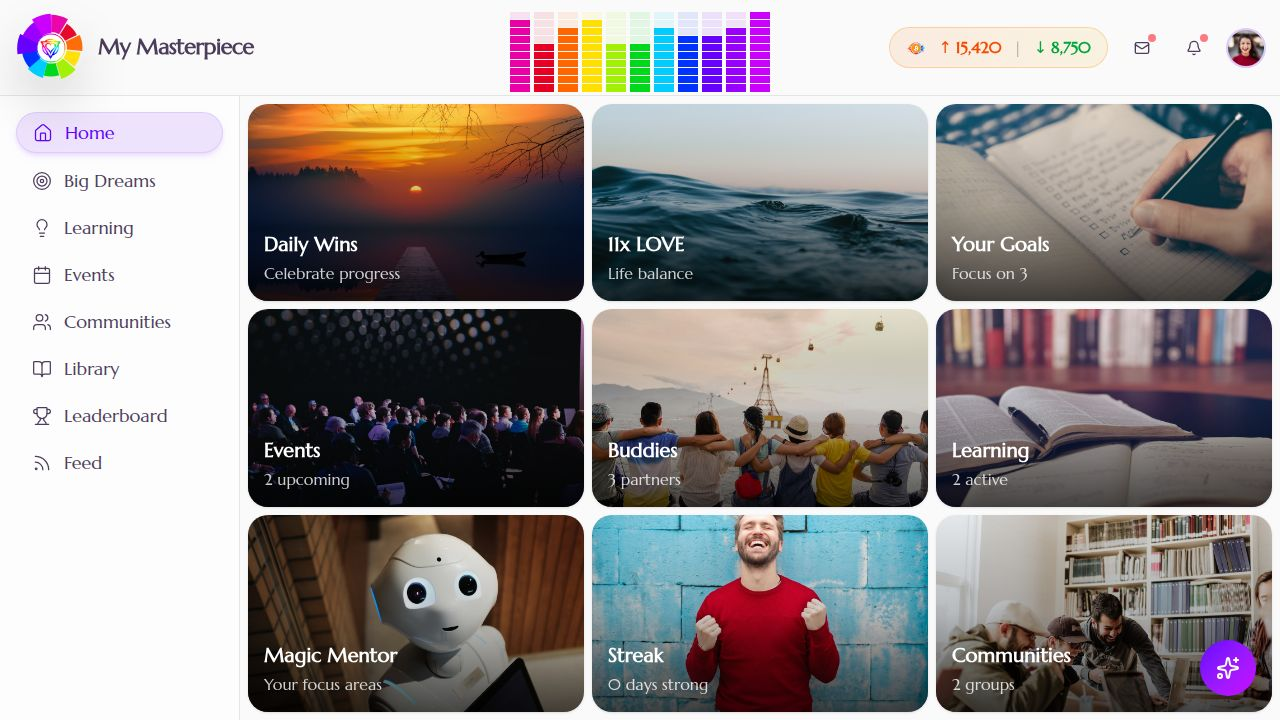
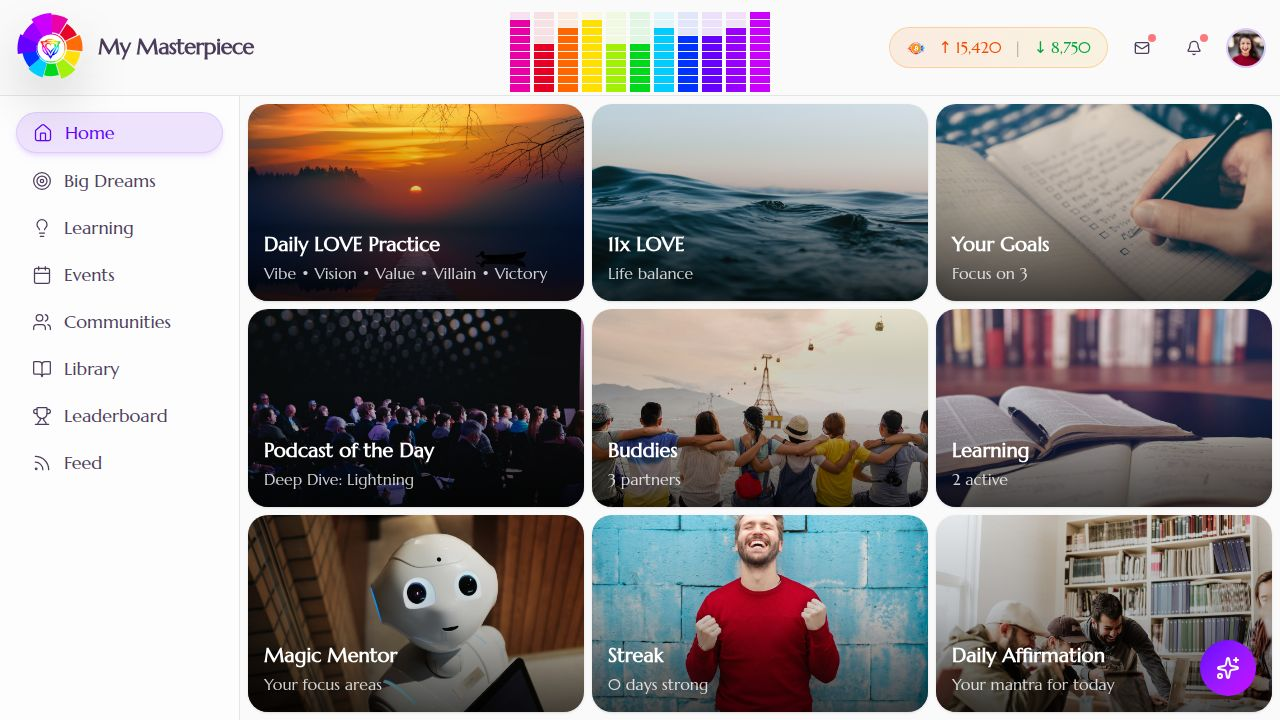
Improve dashboard interactivity and appearance with new features and styling
Implement a pin feature for flip cards, adjust card flip animations, update card content and styling, and remove bold text from specific elements for better readability and consistency.

Replit-Commit-Author: Agent
Replit-Commit-Session-Id: e631bd74-a3fb-4cd9-a99c-7d1ff611b411
Replit-Commit-Checkpoint-Type: intermediate_checkpoint
Replit-Commit-Event-Id: 65630b3c-d6de-4c36-aee0-d1387e25739e
Replit-Commit-Screenshot-Url: https://storage.googleapis.com/screenshot-production-us-central1/fc1445fb-c5b4-4e37-95c8-dc1683ddab51/e631bd74-a3fb-4cd9-a99c-7d1ff611b411/UHFZmNt
Replit-Helium-Checkpoint-Created: true

diff --git a/client/src/components/dashboard/masterpiece-dashboard.tsx b/client/src/components/dashboard/masterpiece-dashboard.tsx
@@ -91,28 +91,40 @@ export function MasterpieceDashboard() {
     {
       id: "daily-love",
       title: "Daily LOVE Practice",
-      subtitle: "Vision • Value • Villain • Victory",
+      subtitle: "Vibe • Vision • Value • Villain • Victory",
       image: "https://images.unsplash.com/photo-1495616811223-4d98c6e9c869?w=1200&h=800&fit=crop",
       backContent: (
         <div className="space-y-2 px-1">
-          <div className="text-[12px] font-semibold text-muted-foreground uppercase tracking-wider mb-1 px-2">Vibe Check</div>
+          <div className="text-[12px] text-muted-foreground uppercase tracking-wider mb-1 px-2">Daily Check</div>
           <div className="space-y-1">
             <div className="p-2 px-3 bg-gray-50/80 rounded-md border border-gray-100/50">
-              <div className="flex items-center justify-between text-[13px] font-bold text-gray-900">
+              <div className="flex items-center justify-between text-[13px] text-gray-900">
+                <span>Vibe</span>
+                <span className="text-[11px] text-muted-foreground">Feeling Good</span>
+              </div>
+            </div>
+            <div className="p-2 px-3 bg-gray-50/80 rounded-md border border-gray-100/50">
+              <div className="flex items-center justify-between text-[13px] text-gray-900">
                 <span>Vision</span>
-                <span className="text-[11px] font-normal text-muted-foreground">Clear</span>
+                <span className="text-[11px] text-muted-foreground">Clear</span>
               </div>
             </div>
             <div className="p-2 px-3 bg-gray-50/80 rounded-md border border-gray-100/50">
-              <div className="flex items-center justify-between text-[13px] font-bold text-gray-900">
+              <div className="flex items-center justify-between text-[13px] text-gray-900">
                 <span>Value</span>
-                <span className="text-[11px] font-normal text-muted-foreground">Grateful</span>
+                <span className="text-[11px] text-muted-foreground">Grateful</span>
               </div>
             </div>
             <div className="p-2 px-3 bg-gray-50/80 rounded-md border border-gray-100/50">
-              <div className="flex items-center justify-between text-[13px] font-bold text-gray-900">
+              <div className="flex items-center justify-between text-[13px] text-gray-900">
+                <span>Villain</span>
+                <span className="text-[11px] text-muted-foreground">Identified</span>
+              </div>
+            </div>
+            <div className="p-2 px-3 bg-gray-50/80 rounded-md border border-gray-100/50">
+              <div className="flex items-center justify-between text-[13px] text-gray-900">
                 <span>Victory</span>
-                <span className="text-[11px] font-normal text-muted-foreground">Small Wins</span>
+                <span className="text-[11px] text-muted-foreground">Small Wins</span>
               </div>
             </div>
           </div>
@@ -127,7 +139,7 @@ export function MasterpieceDashboard() {
       image: "https://images.unsplash.com/photo-1518837695005-2083093ee35b?w=1200&h=800&fit=crop",
       backContent: (
         <div className="text-center space-y-2">
-          <div className="text-4xl font-bold" style={{ color: "#6600ff" }}>
+          <div className="text-4xl" style={{ color: "#6600ff" }}>
             {overallProgress}%
           </div>
           <div className="text-xs text-muted-foreground">overall progress</div>
@@ -160,21 +172,21 @@ export function MasterpieceDashboard() {
       image: "https://images.unsplash.com/photo-1484480974693-6ca0a78fb36b?w=1200&h=800&fit=crop",
       backContent: (
         <div className="space-y-2 px-1">
-          <div className="text-[12px] font-semibold text-muted-foreground uppercase tracking-wider mb-1 px-2 text-center">Active Experiments</div>
+          <div className="text-[12px] text-muted-foreground uppercase tracking-wider mb-1 px-2 text-center">Active Experiments</div>
           <div className="space-y-1 mt-1">
             <div className="p-2 px-3 bg-gray-50/80 rounded-md border border-gray-100/50">
-              <div className="flex justify-between text-[13px] font-bold text-gray-900 mb-1">
+              <div className="flex justify-between text-[13px] text-gray-900 mb-1">
                 <span>Morning Routine</span>
-                <span className="text-[11px] text-muted-foreground font-medium">65%</span>
+                <span className="text-[11px] text-muted-foreground">65%</span>
               </div>
               <div className="w-full bg-gray-200/50 rounded-full h-1.5">
                 <div className="bg-love-body h-1.5 rounded-full" style={{ width: "65%" }} />
               </div>
             </div>
             <div className="p-2 px-3 bg-gray-50/80 rounded-md border border-gray-100/50">
-              <div className="flex justify-between text-[13px] font-bold text-gray-900 mb-1">
+              <div className="flex justify-between text-[13px] text-gray-900 mb-1">
                 <span>Daily Journaling</span>
-                <span className="text-[11px] text-muted-foreground font-medium">40%</span>
+                <span className="text-[11px] text-muted-foreground">40%</span>
               </div>
               <div className="w-full bg-gray-200/50 rounded-full h-1.5">
                 <div className="bg-love-body h-1.5 rounded-full" style={{ width: "40%" }} />
@@ -192,9 +204,9 @@ export function MasterpieceDashboard() {
       image: "https://images.unsplash.com/photo-1540575467063-178a50c2df87?w=1200&h=800&fit=crop",
       backContent: (
         <div className="space-y-2 px-1">
-          <div className="text-[11px] font-semibold text-muted-foreground uppercase tracking-wider mb-1 px-2">Now Playing</div>
+          <div className="text-[11px] text-muted-foreground uppercase tracking-wider mb-1 px-2">Now Playing</div>
           <div className="p-3 bg-gray-50/80 rounded-md border border-gray-100/50">
-            <div className="font-bold text-[13px] text-gray-900 leading-tight">Lightning Network 101</div>
+            <div className="text-[13px] text-gray-900 leading-tight">Lightning Network 101</div>
             <div className="text-[11px] text-muted-foreground mt-1">with DJ Valerie B LOVE</div>
             <div className="mt-2 flex items-center gap-2">
               <div className="w-full bg-gray-200 h-1 rounded-full overflow-hidden">
@@ -232,12 +244,12 @@ export function MasterpieceDashboard() {
       image: "https://images.unsplash.com/photo-1456513080510-7bf3a84b82f8?w=1200&h=800&fit=crop",
       backContent: (
         <div className="space-y-2 px-1">
-          <div className="text-[12px] font-semibold text-muted-foreground uppercase tracking-wider mb-1 px-2 text-center">Current Courses</div>
+          <div className="text-[12px] text-muted-foreground uppercase tracking-wider mb-1 px-2 text-center">Current Courses</div>
           <div className="space-y-1">
             <div className="p-2 px-3 bg-gray-50/80 rounded-md border border-gray-100/50">
               <div className="flex items-center justify-between gap-2 mb-1">
-                <div className="font-bold text-[13px] text-gray-900 truncate">11x LOVE Foundations</div>
-                <span className="text-[11px] text-muted-foreground whitespace-nowrap font-medium">75%</span>
+                <div className="text-[13px] text-gray-900 truncate">11x LOVE Foundations</div>
+                <span className="text-[11px] text-muted-foreground whitespace-nowrap">75%</span>
               </div>
               <div className="w-full bg-gray-200/50 rounded-full h-1.5">
                 <div className="bg-love-body h-1.5 rounded-full" style={{ width: "75%" }} />
@@ -245,8 +257,8 @@ export function MasterpieceDashboard() {
             </div>
             <div className="p-2 px-3 bg-gray-50/80 rounded-md border border-gray-100/50">
               <div className="flex items-center justify-between gap-2 mb-1">
-                <div className="font-bold text-[13px] text-gray-900 truncate">Daily Rituals</div>
-                <span className="text-[11px] text-muted-foreground whitespace-nowrap font-medium">30%</span>
+                <div className="text-[13px] text-gray-900 truncate">Daily Rituals</div>
+                <span className="text-[11px] text-muted-foreground whitespace-nowrap">30%</span>
               </div>
               <div className="w-full bg-gray-200/50 rounded-full h-1.5">
                 <div className="bg-love-body h-1.5 rounded-full" style={{ width: "30%" }} />
@@ -258,42 +270,27 @@ export function MasterpieceDashboard() {
       detailsLink: "/learn",
     },
     {
-      id: "ai-mentor",
-      title: "Magic Mentor",
-      subtitle: "Your focus areas",
-      image: "https://images.unsplash.com/photo-1485827404703-89b55fcc595e?w=1200&h=800&fit=crop",
+      id: "song-day",
+      title: "Song of the Day",
+      subtitle: "Your daily anthem",
+      image: "https://images.unsplash.com/photo-1511379938547-c1f69419868d?w=1200&h=800&fit=crop",
       backContent: (
         <div className="space-y-2 px-1">
-          <div className="text-[12px] font-semibold text-muted-foreground uppercase tracking-wider mb-1 px-2">Top 3 Focus Areas</div>
-          <div className="space-y-1">
-            {areaProgress.length > 0 ? (
-              [...areaProgress]
-                .sort((a: any, b: any) => (b.progress || 0) - (a.progress || 0))
-                .slice(0, 3)
-                .map((area: any) => {
-                  const areaId = area.areaId || "unknown";
-                  const displayName = AREA_ORDER.find(a => a.toLowerCase().replace(/[\/\s]/g, '-') === areaId) || areaId;
-                  const color = LOVE_COLORS[displayName as keyof typeof LOVE_COLORS] || "#6600ff";
-                  const progress = area.progress || 0;
-                  const status = progress >= 80 ? "Thriving" : progress >= 50 ? "Growing" : "Building";
-                  return (
-                    <div key={area.id} className="flex items-center gap-2 p-2 px-3 bg-gray-50/80 rounded-md border border-gray-100/50">
-                      <div className="w-1.5 h-1.5 rounded-full shrink-0" style={{ backgroundColor: color }} />
-                      <span className="text-[13px] font-bold text-gray-900 capitalize truncate">{areaId.replace(/-/g, ' ')}</span>
-                      <span className="text-[11px] text-muted-foreground ml-auto whitespace-nowrap">{status}</span>
-                    </div>
-                  );
-                })
-            ) : (
-              <div className="flex items-center gap-2 p-2 px-3 bg-gray-50/80 rounded-md border border-gray-100/50">
-                <div className="w-1.5 h-1.5 rounded-full bg-muted shrink-0" />
-                <span className="text-[12px] text-muted-foreground">Set your first goal</span>
+          <div className="text-[12px] text-muted-foreground uppercase tracking-wider mb-1 px-2">Now Playing</div>
+          <div className="p-3 bg-gray-50/80 rounded-md border border-gray-100/50">
+            <div className="text-[13px] text-gray-900 leading-tight">Feeling Good</div>
+            <div className="text-[11px] text-muted-foreground mt-1">Nina Simone</div>
+            <div className="mt-2 flex items-center gap-2">
+              <div className="w-full bg-gray-200 h-1 rounded-full overflow-hidden">
+                <div className="bg-love-body h-full w-[65%]" />
               </div>
-            )}
+              <span className="text-[10px] text-muted-foreground">2:45</span>
+            </div>
           </div>
+          <div className="text-[10px] text-muted-foreground text-center mt-2">Swap with your favorite song</div>
         </div>
       ),
-      detailsLink: "/big-dreams",
+      detailsLink: "/resources",
     },
     {
       id: "streak",
@@ -304,7 +301,7 @@ export function MasterpieceDashboard() {
         <div className="text-center space-y-2">
           <div className="flex items-center justify-center gap-2">
             <Flame className="w-8 h-8 text-muted-foreground" />
-            <span className="text-4xl font-bold">{streak}</span>
+            <span className="text-4xl">{streak}</span>
           </div>
           <div className="text-xs text-muted-foreground">consecutive days</div>
           <div className="text-[10px] text-muted-foreground">
@@ -323,7 +320,7 @@ export function MasterpieceDashboard() {
       image: "https://images.unsplash.com/photo-1523240795612-9a054b0db644?w=1200&h=800&fit=crop",
       backContent: (
         <div className="flex flex-col items-center justify-center text-center h-full px-4 space-y-3">
-          <div className="text-[14px] font-bold text-gray-900 leading-relaxed italic">
+          <div className="text-[14px] text-gray-900 leading-relaxed italic">
             "I am the architect of my own masterpiece, building with LOVE and intention."
           </div>
           <div className="w-8 h-0.5 bg-love-body/20 rounded-full" />

diff --git a/client/src/components/dashboard/flip-card.tsx b/client/src/components/dashboard/flip-card.tsx
@@ -1,7 +1,7 @@
 import { useState } from "react";
 import { cn } from "@/lib/utils";
 import { Button } from "@/components/ui/button";
-import { ChevronRight } from "lucide-react";
+import { ChevronRight, Pin } from "lucide-react";
 
 interface FlipCardProps {
   title: string;
@@ -26,30 +26,44 @@ export function FlipCard({
 }: FlipCardProps) {
   const [isFlipped, setIsFlipped] = useState(false);
   const [isHovered, setIsHovered] = useState(false);
+  const [isPinned, setIsPinned] = useState(false);
 
   const handleClick = (e: React.MouseEvent) => {
-    // On mobile/touch devices, we use click. On desktop, hover handles it but click toggles too.
-    setIsFlipped(!isFlipped);
+    if (!isPinned) {
+      setIsFlipped(!isFlipped);
+    }
   };
 
   const handleMouseEnter = () => {
-    if (window.matchMedia("(min-width: 1024px)").matches) {
+    if (window.matchMedia("(min-width: 1024px)").matches && !isPinned) {
       setIsHovered(true);
       setIsFlipped(true);
     }
   };
 
   const handleMouseLeave = () => {
-    if (window.matchMedia("(min-width: 1024px)").matches) {
+    if (window.matchMedia("(min-width: 1024px)").matches && !isPinned) {
       setIsHovered(false);
       setIsFlipped(false);
+    }
+  };
+
+  const handlePinClick = (e: React.MouseEvent) => {
+    e.stopPropagation();
+    if (isPinned) {
+      setIsPinned(false);
+    } else {
+      setIsPinned(true);
+      setIsFlipped(true);
     }
   };
 
   const handleKeyDown = (e: React.KeyboardEvent) => {
     if (e.key === "Enter" || e.key === " ") {
       e.preventDefault();
-      setIsFlipped(!isFlipped);
+      if (!isPinned) {
+        setIsFlipped(!isFlipped);
+      }
     }
   };
 
@@ -69,7 +83,7 @@ export function FlipCard({
       onKeyDown={handleKeyDown}
     >
       <div
-        className="relative w-full h-full transition-transform duration-[400ms] ease-in-out"
+        className="relative w-full h-full transition-transform duration-[600ms] ease-in-out"
         style={{
           transformStyle: "preserve-3d",
           transform: isFlipped ? "rotateY(180deg)" : "rotateY(0deg)",
@@ -103,6 +117,19 @@ export function FlipCard({
           }}
         >
           <div className="flex flex-col h-full p-4 relative">
+            <button
+              onClick={handlePinClick}
+              className={cn(
+                "absolute top-2 right-2 z-10 w-7 h-7 rounded-full flex items-center justify-center transition-all",
+                isPinned 
+                  ? "bg-love-body text-white shadow-md" 
+                  : "bg-gray-100 text-gray-400 hover:bg-gray-200 hover:text-gray-600"
+              )}
+              aria-label={isPinned ? "Unpin card" : "Pin card open"}
+              data-testid="button-pin-card"
+            >
+              <Pin className={cn("w-3.5 h-3.5", isPinned && "rotate-45")} />
+            </button>
             <div className="flex-1 overflow-y-auto pb-14">{backContent}</div>
             <div className="absolute bottom-4 left-4 right-4">
               <Button

diff --git a/client/src/components/layout.tsx b/client/src/components/layout.tsx
@@ -84,12 +84,12 @@ export default function Layout({ children }: { children: React.ReactNode }) {
                 <div className="flex items-center gap-3 text-sm">
                   <div className="flex items-center gap-1" data-testid="sats-given">
                     <span className="text-orange-600 font-medium">↑</span>
-                    <span className="font-bold text-orange-600">{CURRENT_USER.satsGiven?.toLocaleString() || 0}</span>
+                    <span className="text-orange-600">{CURRENT_USER.satsGiven?.toLocaleString() || 0}</span>
                   </div>
                   <span className="text-muted-foreground/50">|</span>
                   <div className="flex items-center gap-1" data-testid="sats-received">
                     <span className="text-green-600 font-medium">↓</span>
-                    <span className="font-bold text-green-600">{CURRENT_USER.satsReceived?.toLocaleString() || 0}</span>
+                    <span className="text-green-600">{CURRENT_USER.satsReceived?.toLocaleString() || 0}</span>
                   </div>
                 </div>
               </div>
